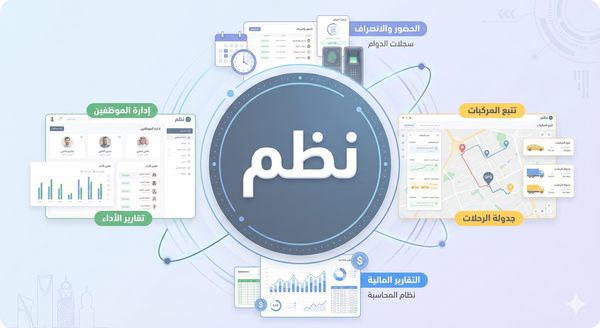
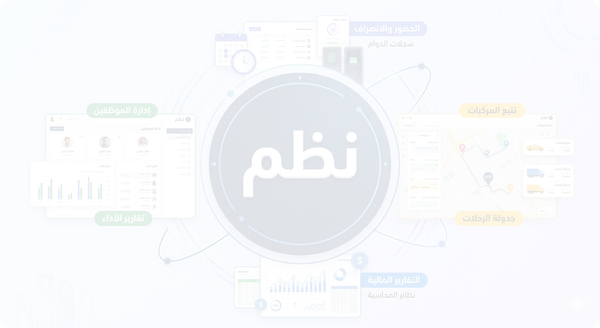
Improve hero image transparency and visual effects
Apply backdrop filter, blur, and adjusted opacity to the hero image for a glass morphism effect.

Replit-Commit-Author: Agent
Replit-Commit-Session-Id: 82b05654-4ad3-4b7b-a04e-8e70febea054
Replit-Commit-Checkpoint-Type: full_checkpoint
Replit-Commit-Event-Id: f2d9b8bf-f500-4b5d-9fdc-7d8225f40f6c
Replit-Commit-Screenshot-Url: https://storage.googleapis.com/screenshot-production-us-central1/d72f2aef-918c-4148-9723-15870f8c7cf6/82b05654-4ad3-4b7b-a04e-8e70febea054/KOotswH

diff --git a/templates/landing/index.html b/templates/landing/index.html
@@ -148,8 +148,10 @@
         width: 80%;
         height: auto;
         max-width: 500px;
-        filter: drop-shadow(0 10px 30px rgba(0, 0, 0, 0.2));
+        backdrop-filter: blur(10px);
+        filter: blur(0.5px) drop-shadow(0 10px 30px rgba(0, 0, 0, 0.1));
         animation: slideInRight 0.8s ease 0.2s both;
+        opacity: 0.85;
     }
 
     @keyframes slideInRight {
